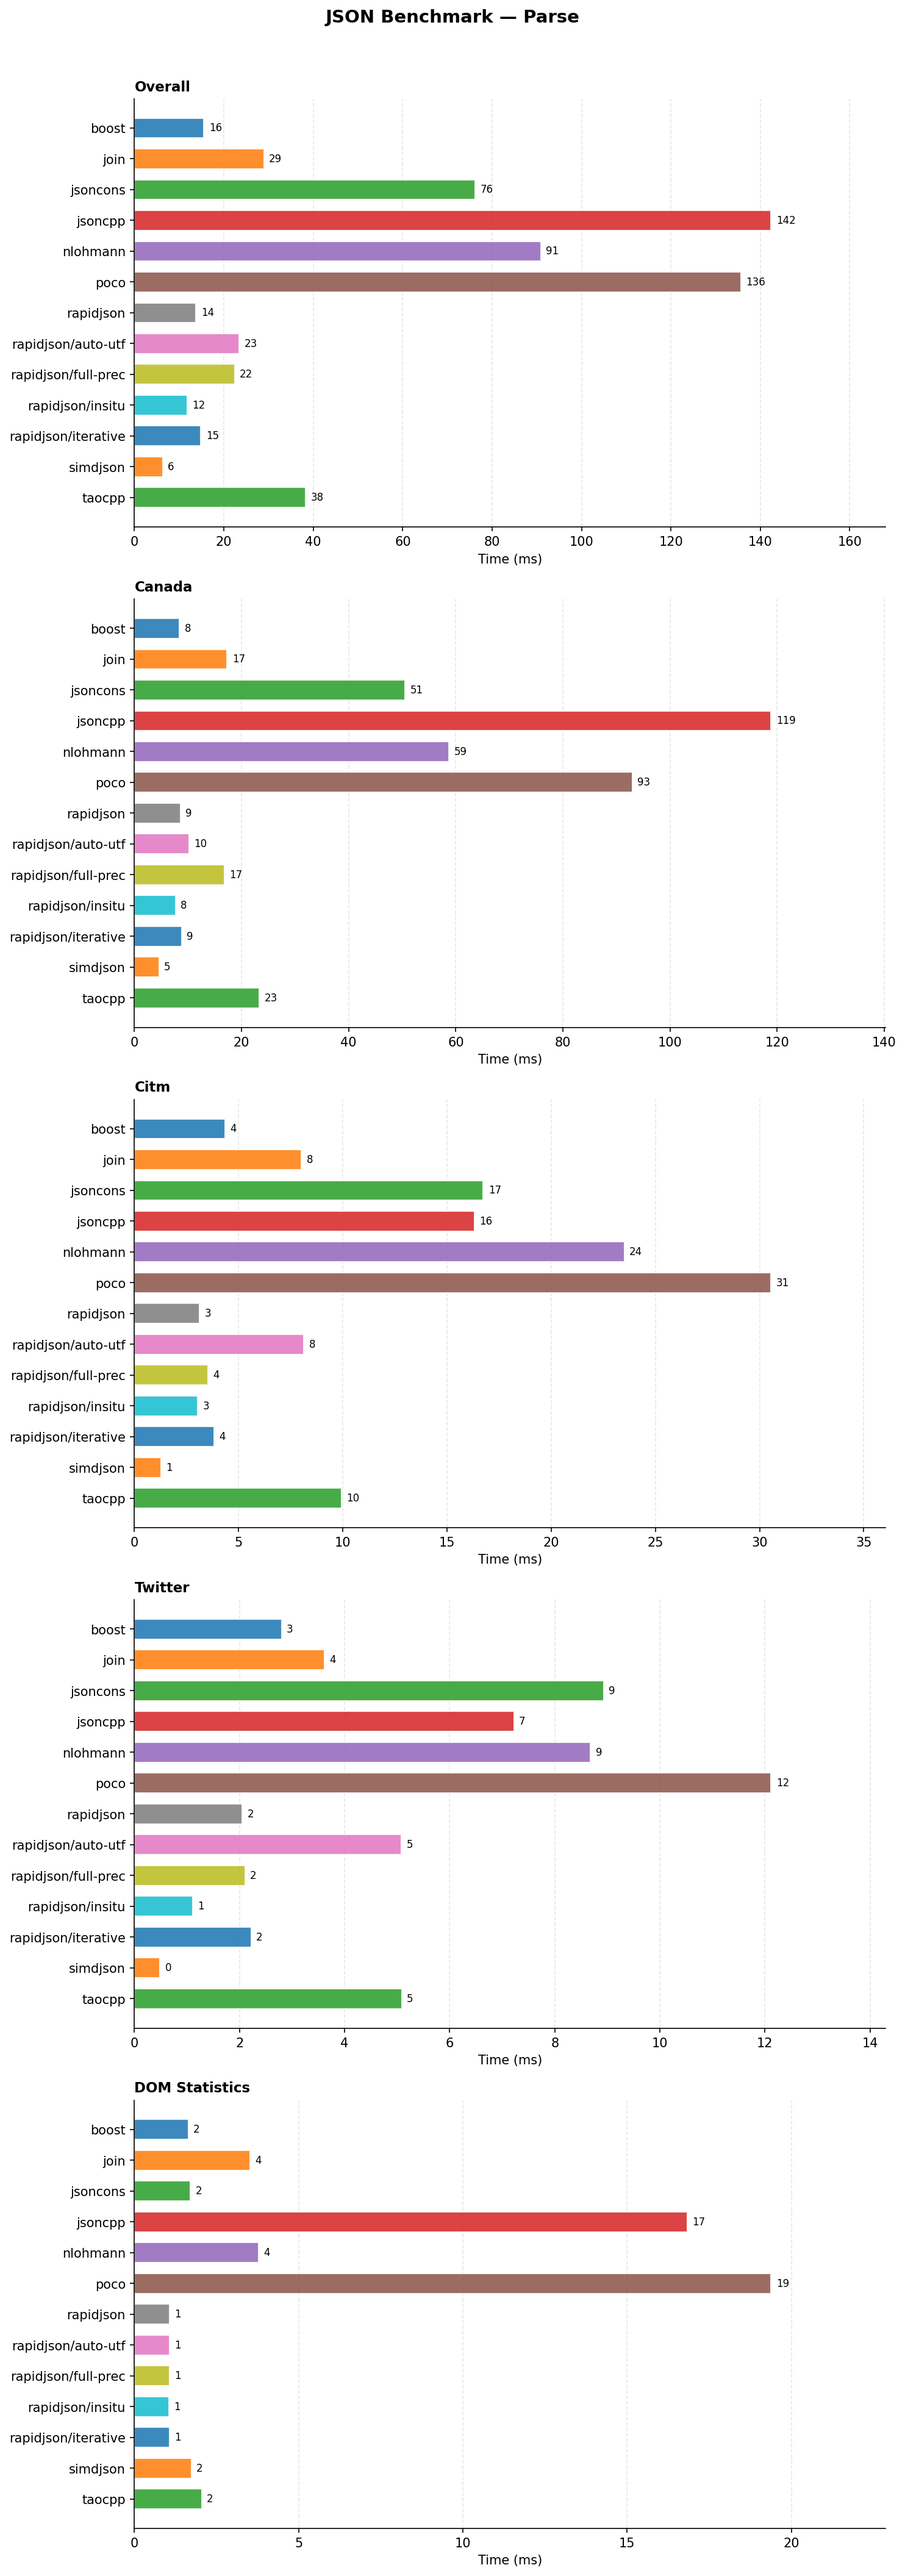
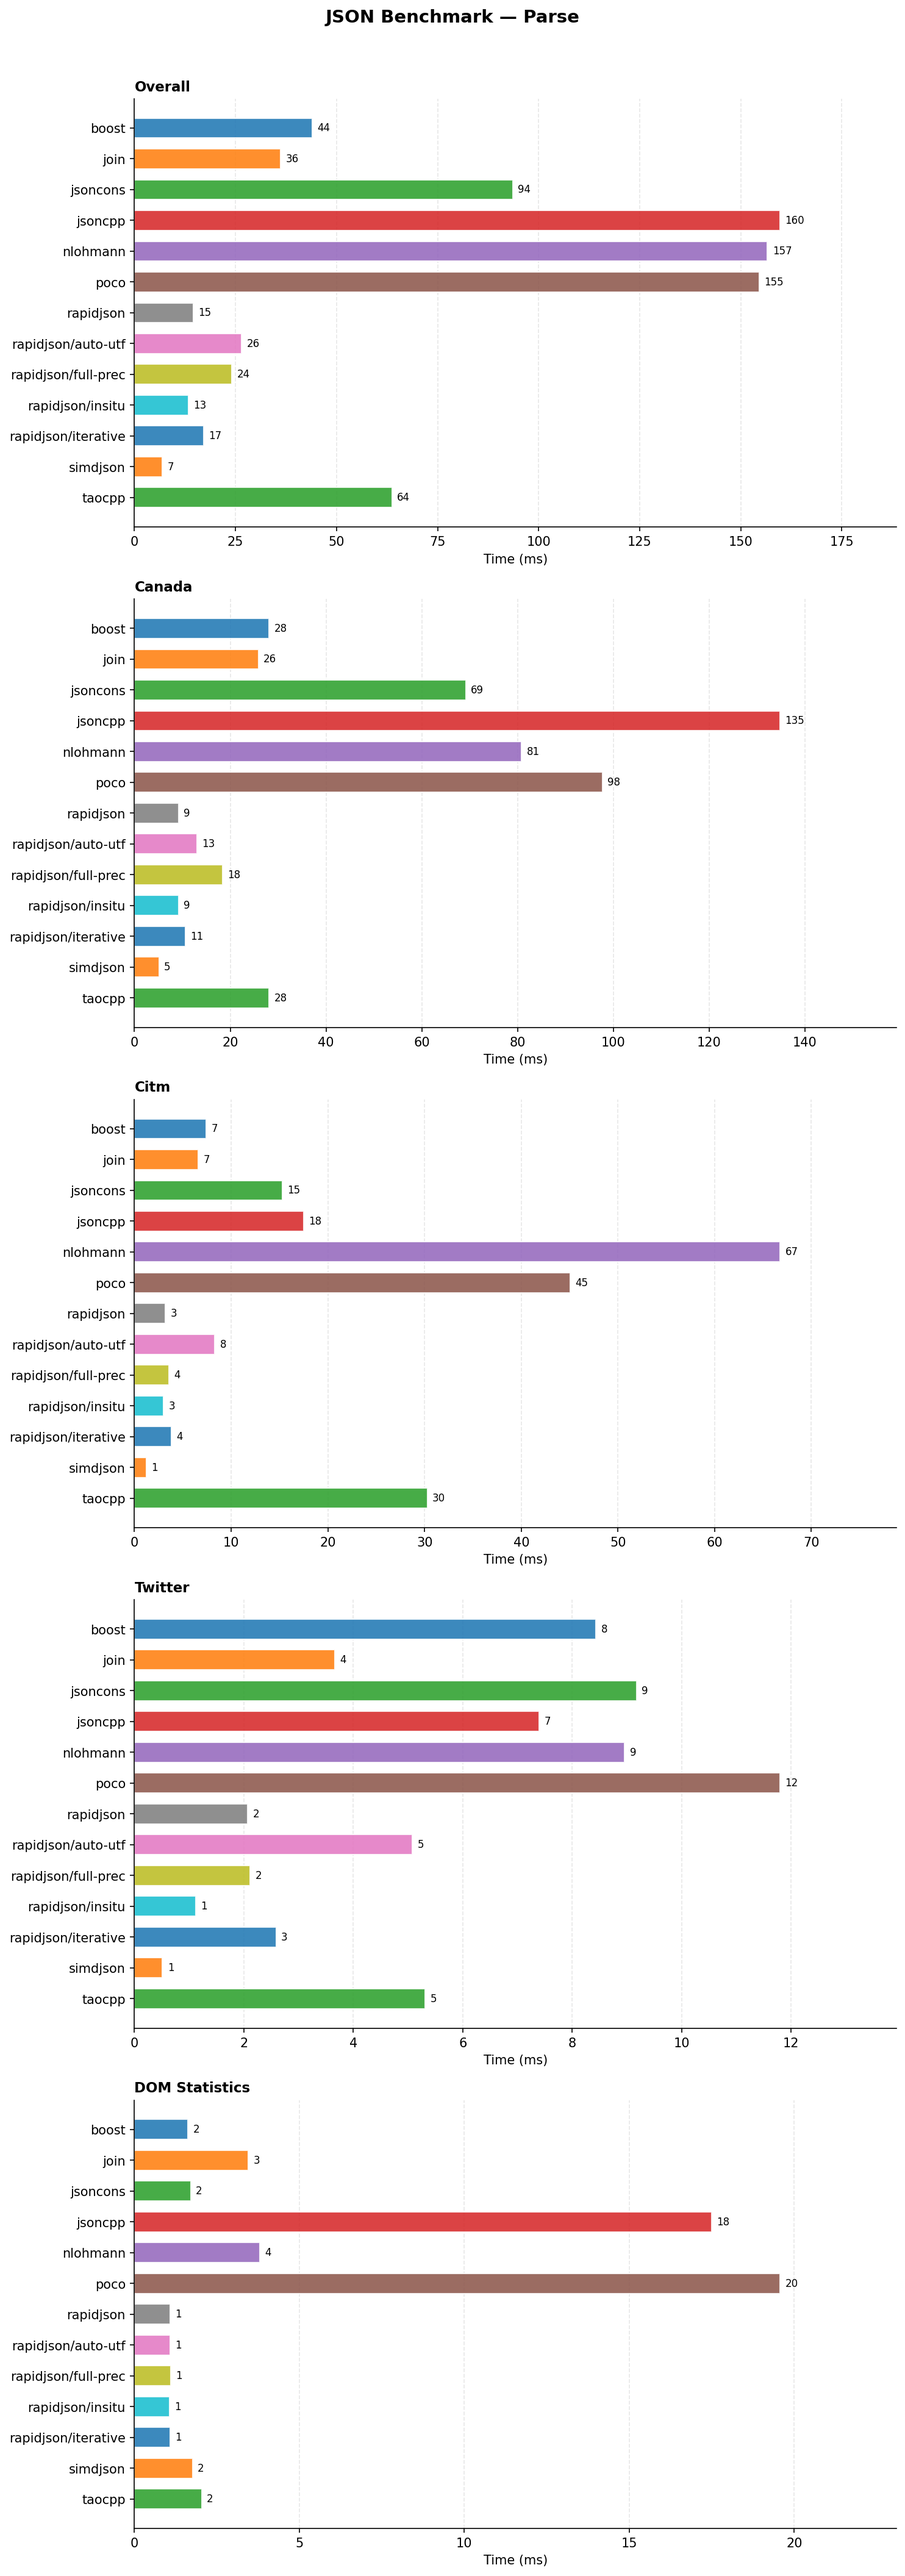
last run

diff --git a/README.md b/README.md
@@ -198,13 +198,13 @@ Measured on a development machine. Re-run `scripts/run_bench.sh` to reproduce on
 
 ![Prettify](plots/performance_prettify.png)
 
-**Parse**: **simdjson** leads at 6 ms, more than 1.8× faster than the next best (**RapidJSON** insitu at 12 ms). Among the general-purpose DOM libraries, **RapidJSON**'s in-situ mode leads thanks to its zero-copy string handling, followed closely by the default and iterative variants (14–15 ms) and **Boost.JSON** (16 ms). **Join** (29 ms) sits between **RapidJSON** and the slower libraries. **taocpp/json** (38 ms) is competitive. **jsoncons** (76 ms) and **nlohmann/json** (91 ms) are slower but similar; **POCO** (136 ms) and **JsonCpp** (142 ms) trail significantly.
+**Parse**: **simdjson** leads at 7 ms, nearly 2× faster than the next best (**RapidJSON** insitu at 13 ms). Among the general-purpose DOM libraries, **RapidJSON**'s in-situ mode leads thanks to its zero-copy string handling, followed by the default (15 ms) and iterative (17 ms) variants. **Join** (36 ms) sits between **RapidJSON** and the slower libraries. **Boost.JSON** (44 ms) and **taocpp/json** (64 ms) are competitive. **jsoncons** (94 ms) follows; **POCO** (155 ms), **nlohmann/json** (157 ms), and **JsonCpp** (160 ms) trail significantly.
 
-**Stringify**: **Boost.JSON** leads at 11 ms. All **RapidJSON** variants cluster tightly at ~18 ms. **simdjson** (21 ms, minified output only) and **taocpp/json** (23 ms) follow. **Join** (23 ms) and **nlohmann/json** (24 ms) are close; **jsoncons** (27 ms) is slightly behind. **POCO** (71 ms) and **JsonCpp** (173 ms) are the slowest.
+**Stringify**: **Boost.JSON** leads at 11 ms. All **RapidJSON** variants cluster tightly at ~16 ms. **simdjson** (19 ms, minified output only) and **taocpp/json** (21 ms) follow. **nlohmann/json** (22 ms) and **Join** (23 ms) are close; **jsoncons** (26 ms) is slightly behind. **POCO** (66 ms) and **JsonCpp** (176 ms) are the slowest.
 
-**Prettify**: **RapidJSON** variants lead at ~19 ms across all five modes. **Boost.JSON** (27 ms) follows closely. **Join** (29 ms), **nlohmann/json** (30 ms), and **taocpp/json** (30 ms) are close behind. **jsoncons** (55 ms) is slower. **JsonCpp** (180 ms) and **POCO** (217 ms) trail by a wide margin.
+**Prettify**: **RapidJSON** variants lead at ~19–21 ms. **Boost.JSON** (26 ms) follows closely. **nlohmann/json** (29 ms), **Join** (29 ms), and **taocpp/json** (29 ms) are close behind. **jsoncons** (55 ms) is slower. **JsonCpp** (180 ms) and **POCO** (210 ms) trail by a wide margin.
 
-**Statistics**: **RapidJSON**'s five variants cluster at ~1 ms — their contiguous memory pool layout maximises cache efficiency. **Boost.JSON** (1.6 ms), **jsoncons** (1.7 ms), **simdjson** (1.7 ms), and **taocpp/json** (2.0 ms) all follow closely. **Join** (3.5 ms) and **nlohmann/json** (3.8 ms) are about 3× slower than **RapidJSON**. **JsonCpp** (17 ms) and **POCO** (19 ms) are again the outliers.
+**Statistics**: **RapidJSON**'s five variants cluster at ~1.1 ms — their contiguous memory pool layout maximises cache efficiency. **Boost.JSON** (1.6 ms), **jsoncons** (1.7 ms), **simdjson** (1.8 ms), and **taocpp/json** (2.0 ms) all follow closely. **Join** (3.4 ms) and **nlohmann/json** (3.8 ms) are about 3× slower than **RapidJSON**. **JsonCpp** (18 ms) and **POCO** (20 ms) are again the outliers.
 
 Raw throughput is only part of the picture. A parser that silently accepts malformed input, produces slightly wrong floating-point values, or mangles escape sequences can introduce subtle bugs that are hard to reproduce and trace. The conformance suite measures what matters in production: does the library correctly reject invalid JSON, parse numbers to the right `double`, decode strings exactly as the spec requires, and reproduce the original representation on roundtrip?
 
@@ -224,13 +224,13 @@ Raw throughput is only part of the picture. A parser that silently accepts malfo
 
 The best libraries are those that are both fast and correct. Several stand out on both axes:
 
-- **RapidJSON** offers the best overall speed profile: `insitu` (12 ms) and `default` (14 ms) are the fastest general-purpose DOM parsers, with all five variants leading in both stringify (~18 ms) and prettify (~19 ms). `full-prec` adds bitwise-accurate double parsing at a parse cost (22 ms) but still achieves perfect conformance (136/136). When float precision is not critical, `insitu` or `default` mode give maximum throughput at the cost of 18 double-precision cases.
-- **Join** achieves perfect conformance (136/136) — perfect double precision and a perfect roundtrip score — while parsing nearly as fast as RapidJSON's default mode (29 ms). It is the strongest all-rounder when both correctness and performance matter.
-- **taocpp/json** also reaches perfect conformance (136/136) with competitive performance across all categories (parse 38 ms, stringify 23 ms, prettify 30 ms). A solid choice when correctness is non-negotiable and RapidJSON's API is not a fit.
-- **simdjson** is the fastest parser by a wide margin (~1.8× faster than RapidJSON insitu at 6 ms) with strong conformance scores, but it is a read-only library. Use it when you only need to read JSON at maximum speed and do not need to modify or re-serialise the document.
-- **nlohmann/json** offers perfect double precision and near-perfect roundtrip (26/27) in a widely used, ergonomic API, at the cost of parse throughput (91 ms). A reasonable default when correctness and ease of use outweigh raw speed.
-- **jsoncons** achieves near-perfect conformance (134/136) with competitive statistics performance (1.7 ms). Parse speed (76 ms) is comparable to nlohmann.
-- **Boost.JSON** is the fastest serialiser (11 ms), ranks second in prettify (27 ms, just behind RapidJSON), and has solid parse performance (16 ms). Its roundtrip score (19/27) is a concern if exact decimal reproduction of floats matters.
+- **RapidJSON** offers the best overall speed profile: `insitu` (13 ms) and `default` (15 ms) are the fastest general-purpose DOM parsers, with all five variants leading in both stringify (~16 ms) and prettify (~19–21 ms). `full-prec` adds bitwise-accurate double parsing at a modest parse cost (24 ms) and achieves perfect conformance (136/136). When float precision is not critical, `insitu` or `default` mode give maximum throughput at the cost of 18 double-precision cases.
+- **Join** achieves perfect conformance (136/136) — perfect double precision and a perfect roundtrip score — with solid performance across all categories (parse 36 ms, stringify 23 ms, prettify 29 ms). It is the strongest all-rounder when both correctness and performance matter.
+- **taocpp/json** also reaches perfect conformance (136/136) with competitive performance (parse 64 ms, stringify 21 ms, prettify 29 ms). A solid choice when correctness is non-negotiable and RapidJSON's API is not a fit.
+- **simdjson** is the fastest parser by a wide margin (~2× faster than RapidJSON insitu at 7 ms) with strong conformance scores, but it is a read-only library. Use it when you only need to read JSON at maximum speed and do not need to modify or re-serialise the document.
+- **Boost.JSON** is the fastest serialiser (11 ms) and leads in prettify (26 ms), but its roundtrip score (19/27) is a concern if exact decimal reproduction of floats matters.
+- **nlohmann/json** offers perfect double precision and near-perfect roundtrip (26/27) in a widely used, ergonomic API, at the cost of parse throughput (157 ms). A reasonable default when correctness and ease of use outweigh raw speed.
+- **jsoncons** achieves near-perfect conformance (134/136) with competitive statistics performance (1.7 ms). Parse speed (94 ms) is in the same range as nlohmann.
 - **JsonCpp** and **POCO** are consistently the slowest in every performance category and offer no conformance advantage. They are best avoided in performance-sensitive code.
 
 ## License
